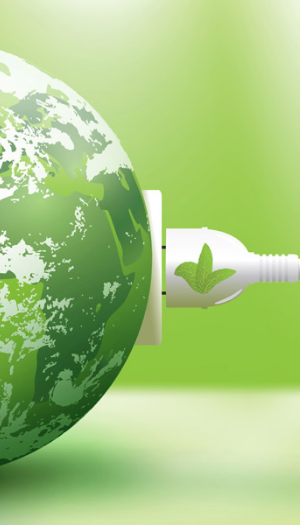
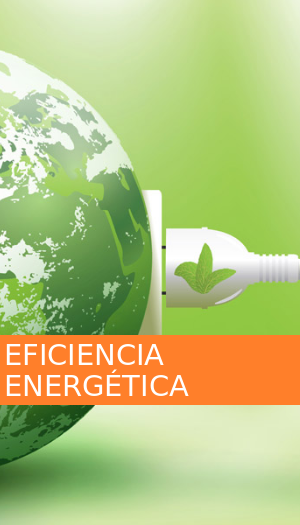
Front pages + icono

Changed region(s): [[0.0, 0.64, 1.0, 0.7924]]

diff --git a/index.html b/index.html
@@ -6,7 +6,7 @@
 	    <meta name="viewport" content="width=device-width, initial-scale=1">
 	    <meta name="description" content="Cooperativa Uruguaya de Producción y Tecnología">
 	    <meta name="author" content="CUPTI">
-	    <link rel="icon" href="imgs/logo.png">
+	    <link rel="icon" href="imgs/thumb.png">
 	    
 
 	    <title>CUPTI - Cooperativa Uruguaya de Producción y Tecnología</title>
@@ -47,26 +47,26 @@
 			<div class="container">
 				<div class="row">
 					<div class="col-sm-12 col-md-3 top-buffer">
-						<img class="img-rounded" src="imgs/servicios/dise_meca.png">
-						<a class="services-label dise-meca" href="proj-dise-meca.html">DISEÑO <br/>MECÁNICO</a>
+						
+						<a class="services-label dise-meca" href="proj-dise-meca.html"><img class="img-rounded img-responsive" src="imgs/servicios/dise_meca.png"></a>
 						
 					</div>
 
 					<div class="col-sm-12 col-md-3 top-buffer">
-						<img class="img-rounded" src="imgs/servicios/efic_ener.png">
-						<a class="services-label efic-ener" href="proj-efic-ener.html">EFICIENCIA ENERGÉTICA</a>
+						
+						<a class="services-label efic-ener" href="proj-efic-ener.html"><img class="img-rounded img-responsive" src="imgs/servicios/efic_ener.png"></a>
 
 					</div>
 
 					<div class="col-sm-12 col-md-3 top-buffer">
-						<img class="img-rounded" src="imgs/servicios/desa_soft.png">
-							<a class="services-label desa-soft" href="proj-desa-soft.html">DESARROLLO DE SOFTWARE</a>
+						
+						<a class="services-label desa-soft" href="proj-desa-soft.html"><img class="img-rounded img-responsive" src="imgs/servicios/desa_soft.png"></a>
 
 					</div>
 	
 					<div class="col-sm-12 col-md-3 top-buffer">
-						<img class="img-rounded" src="imgs/servicios/ener_reno.png">
-							<a class="services-label ener-reno" href="proj-ener-reno.html">ENERGÍAS RENOVABLES</a>
+						
+						<a class="services-label ener-reno" href="proj-ener-reno.html"><img class="img-rounded img-responsive" src="imgs/servicios/ener_reno.png"></a>
 
 					</div>
 				</div>

diff --git a/css/main.css b/css/main.css
@@ -61,31 +61,7 @@ body {
 
 
 
-a.services-label {
-    color: white;
-    font-size: 2em;
-    left: 15px;
-    position: absolute;
-    width: 300px;
-    text-align: center;
-    top: 12em;
-}
 
-a.dise-meca {
-    background-color: #2A41C3;
-}
-
-a.efic-ener {
-    background-color: #DF7401;
-}
-
-a.ener-reno {
-    background-color: #3AAF57;
-}
-
-a.desa-soft {
-    background-color: #A4A4A4;
-}
 
 .project { 
 	background-color: #e0e0e0;
